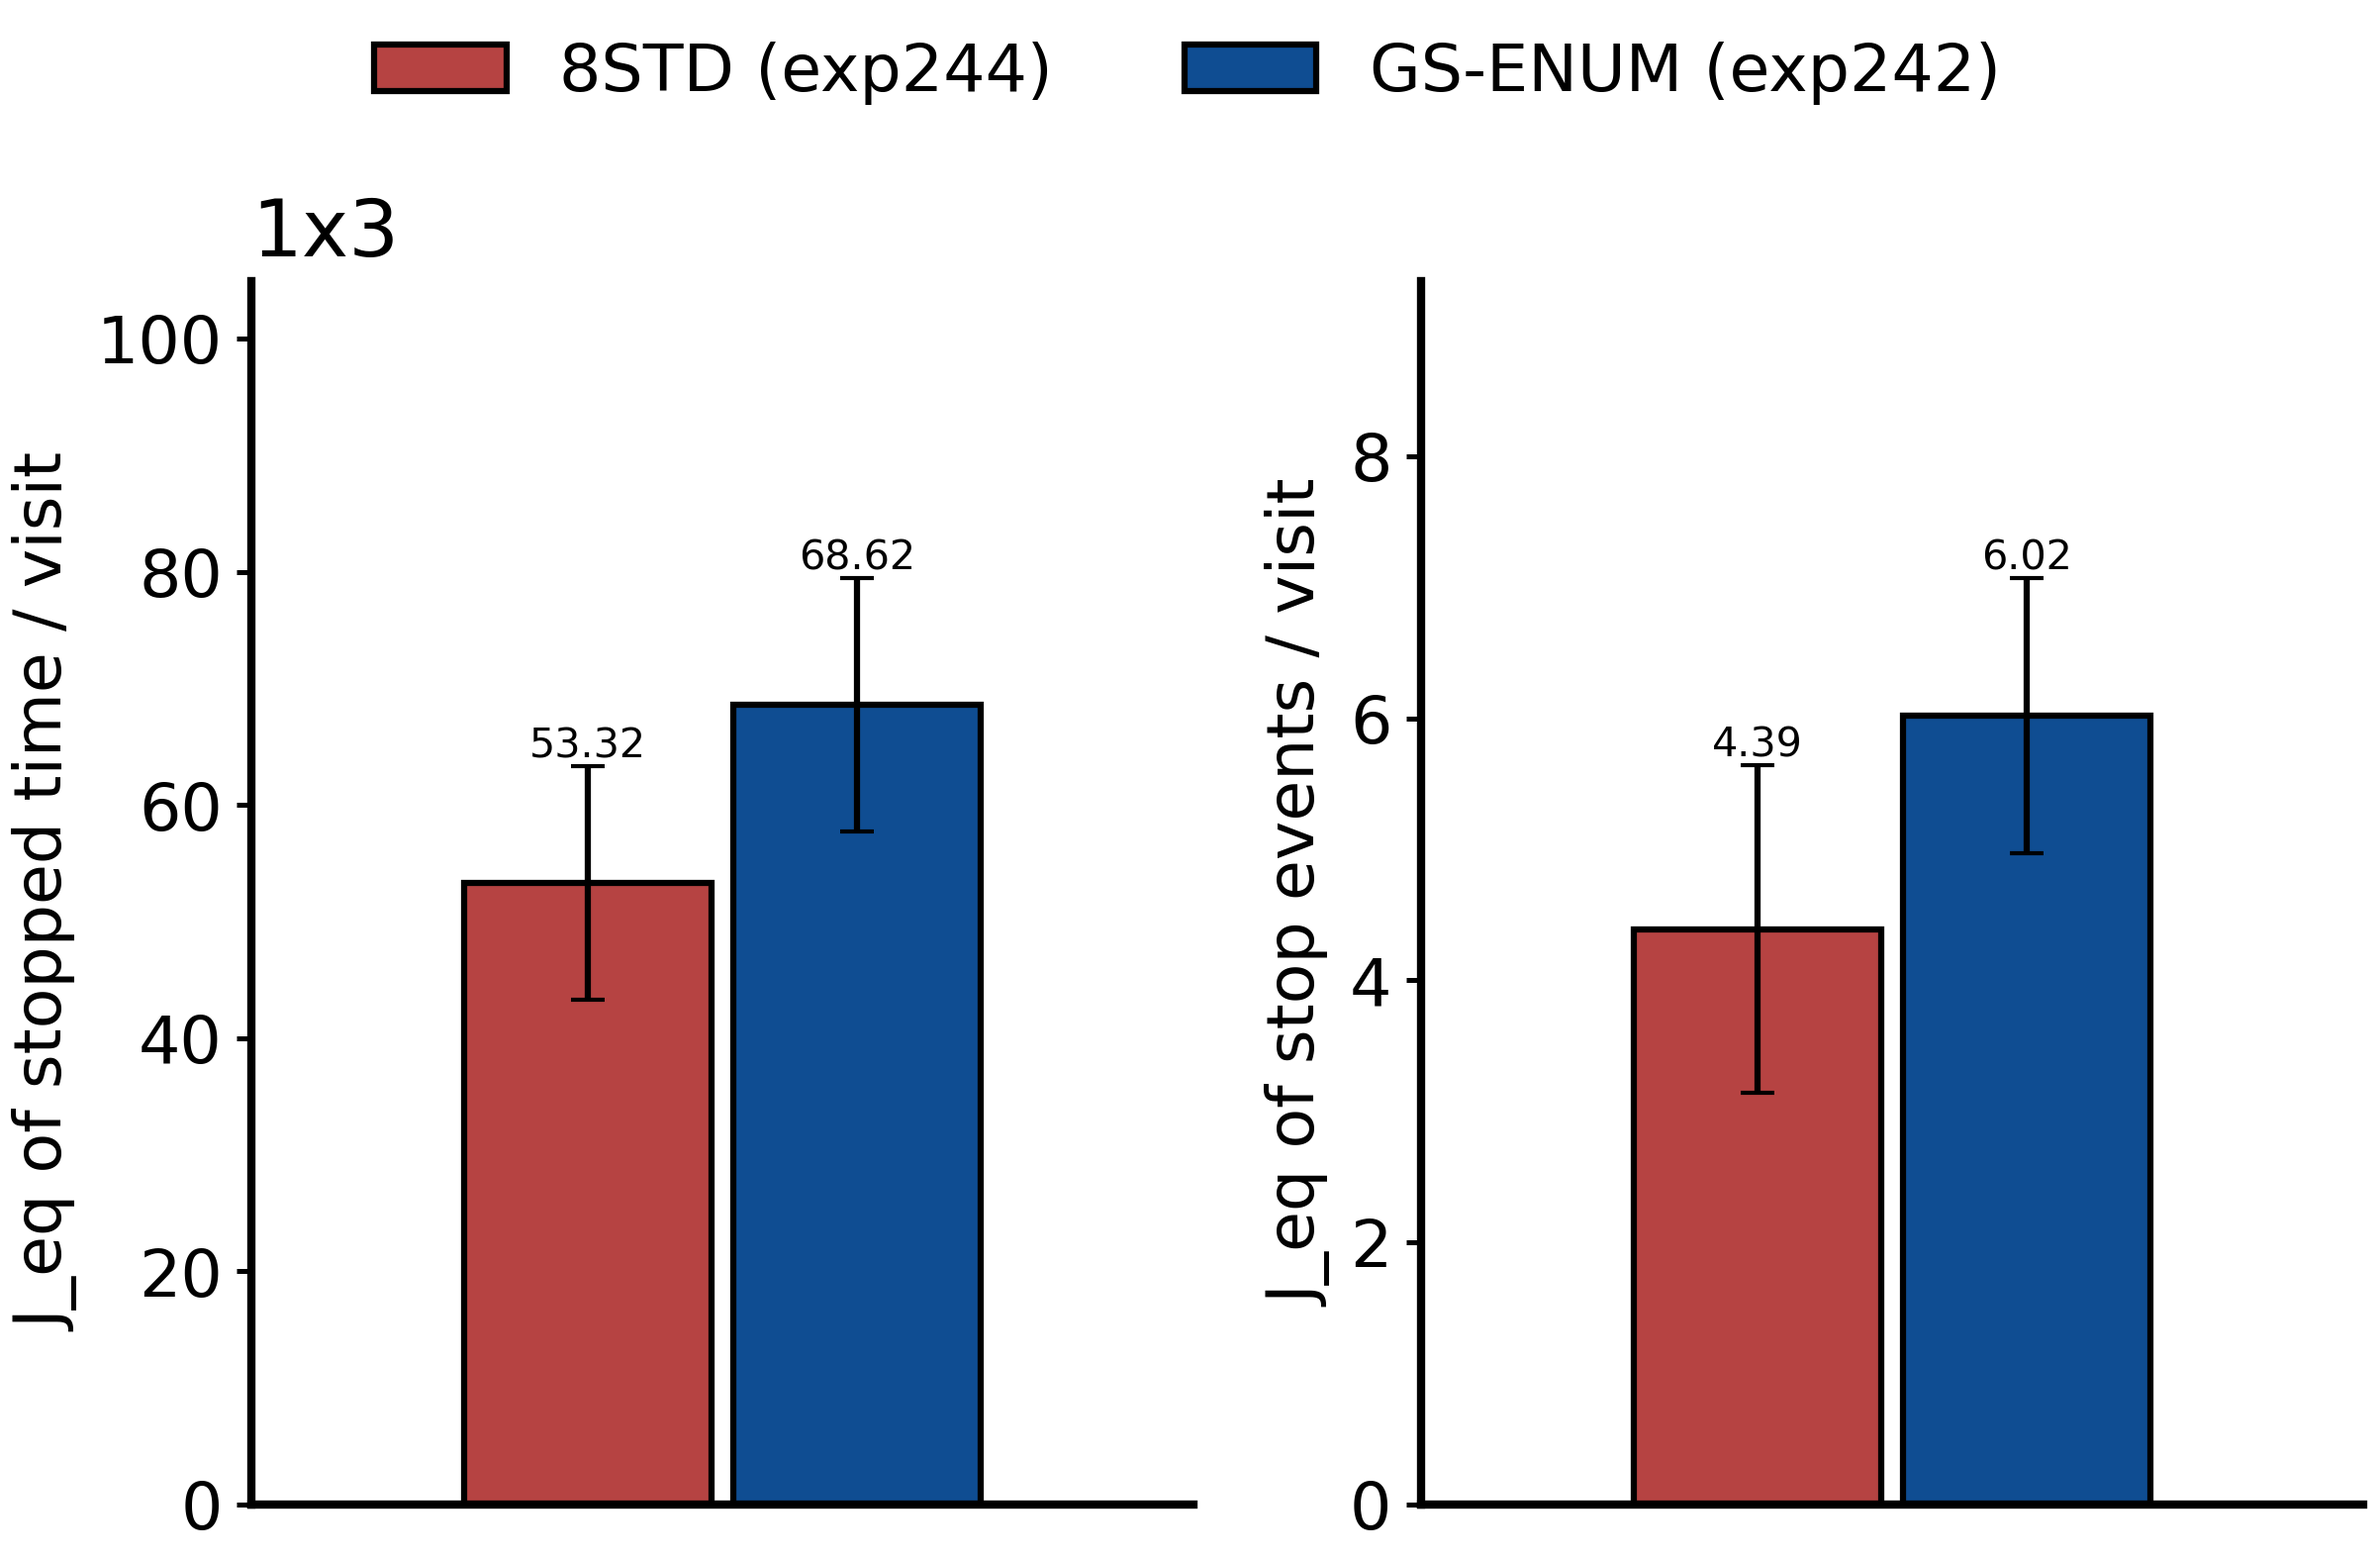
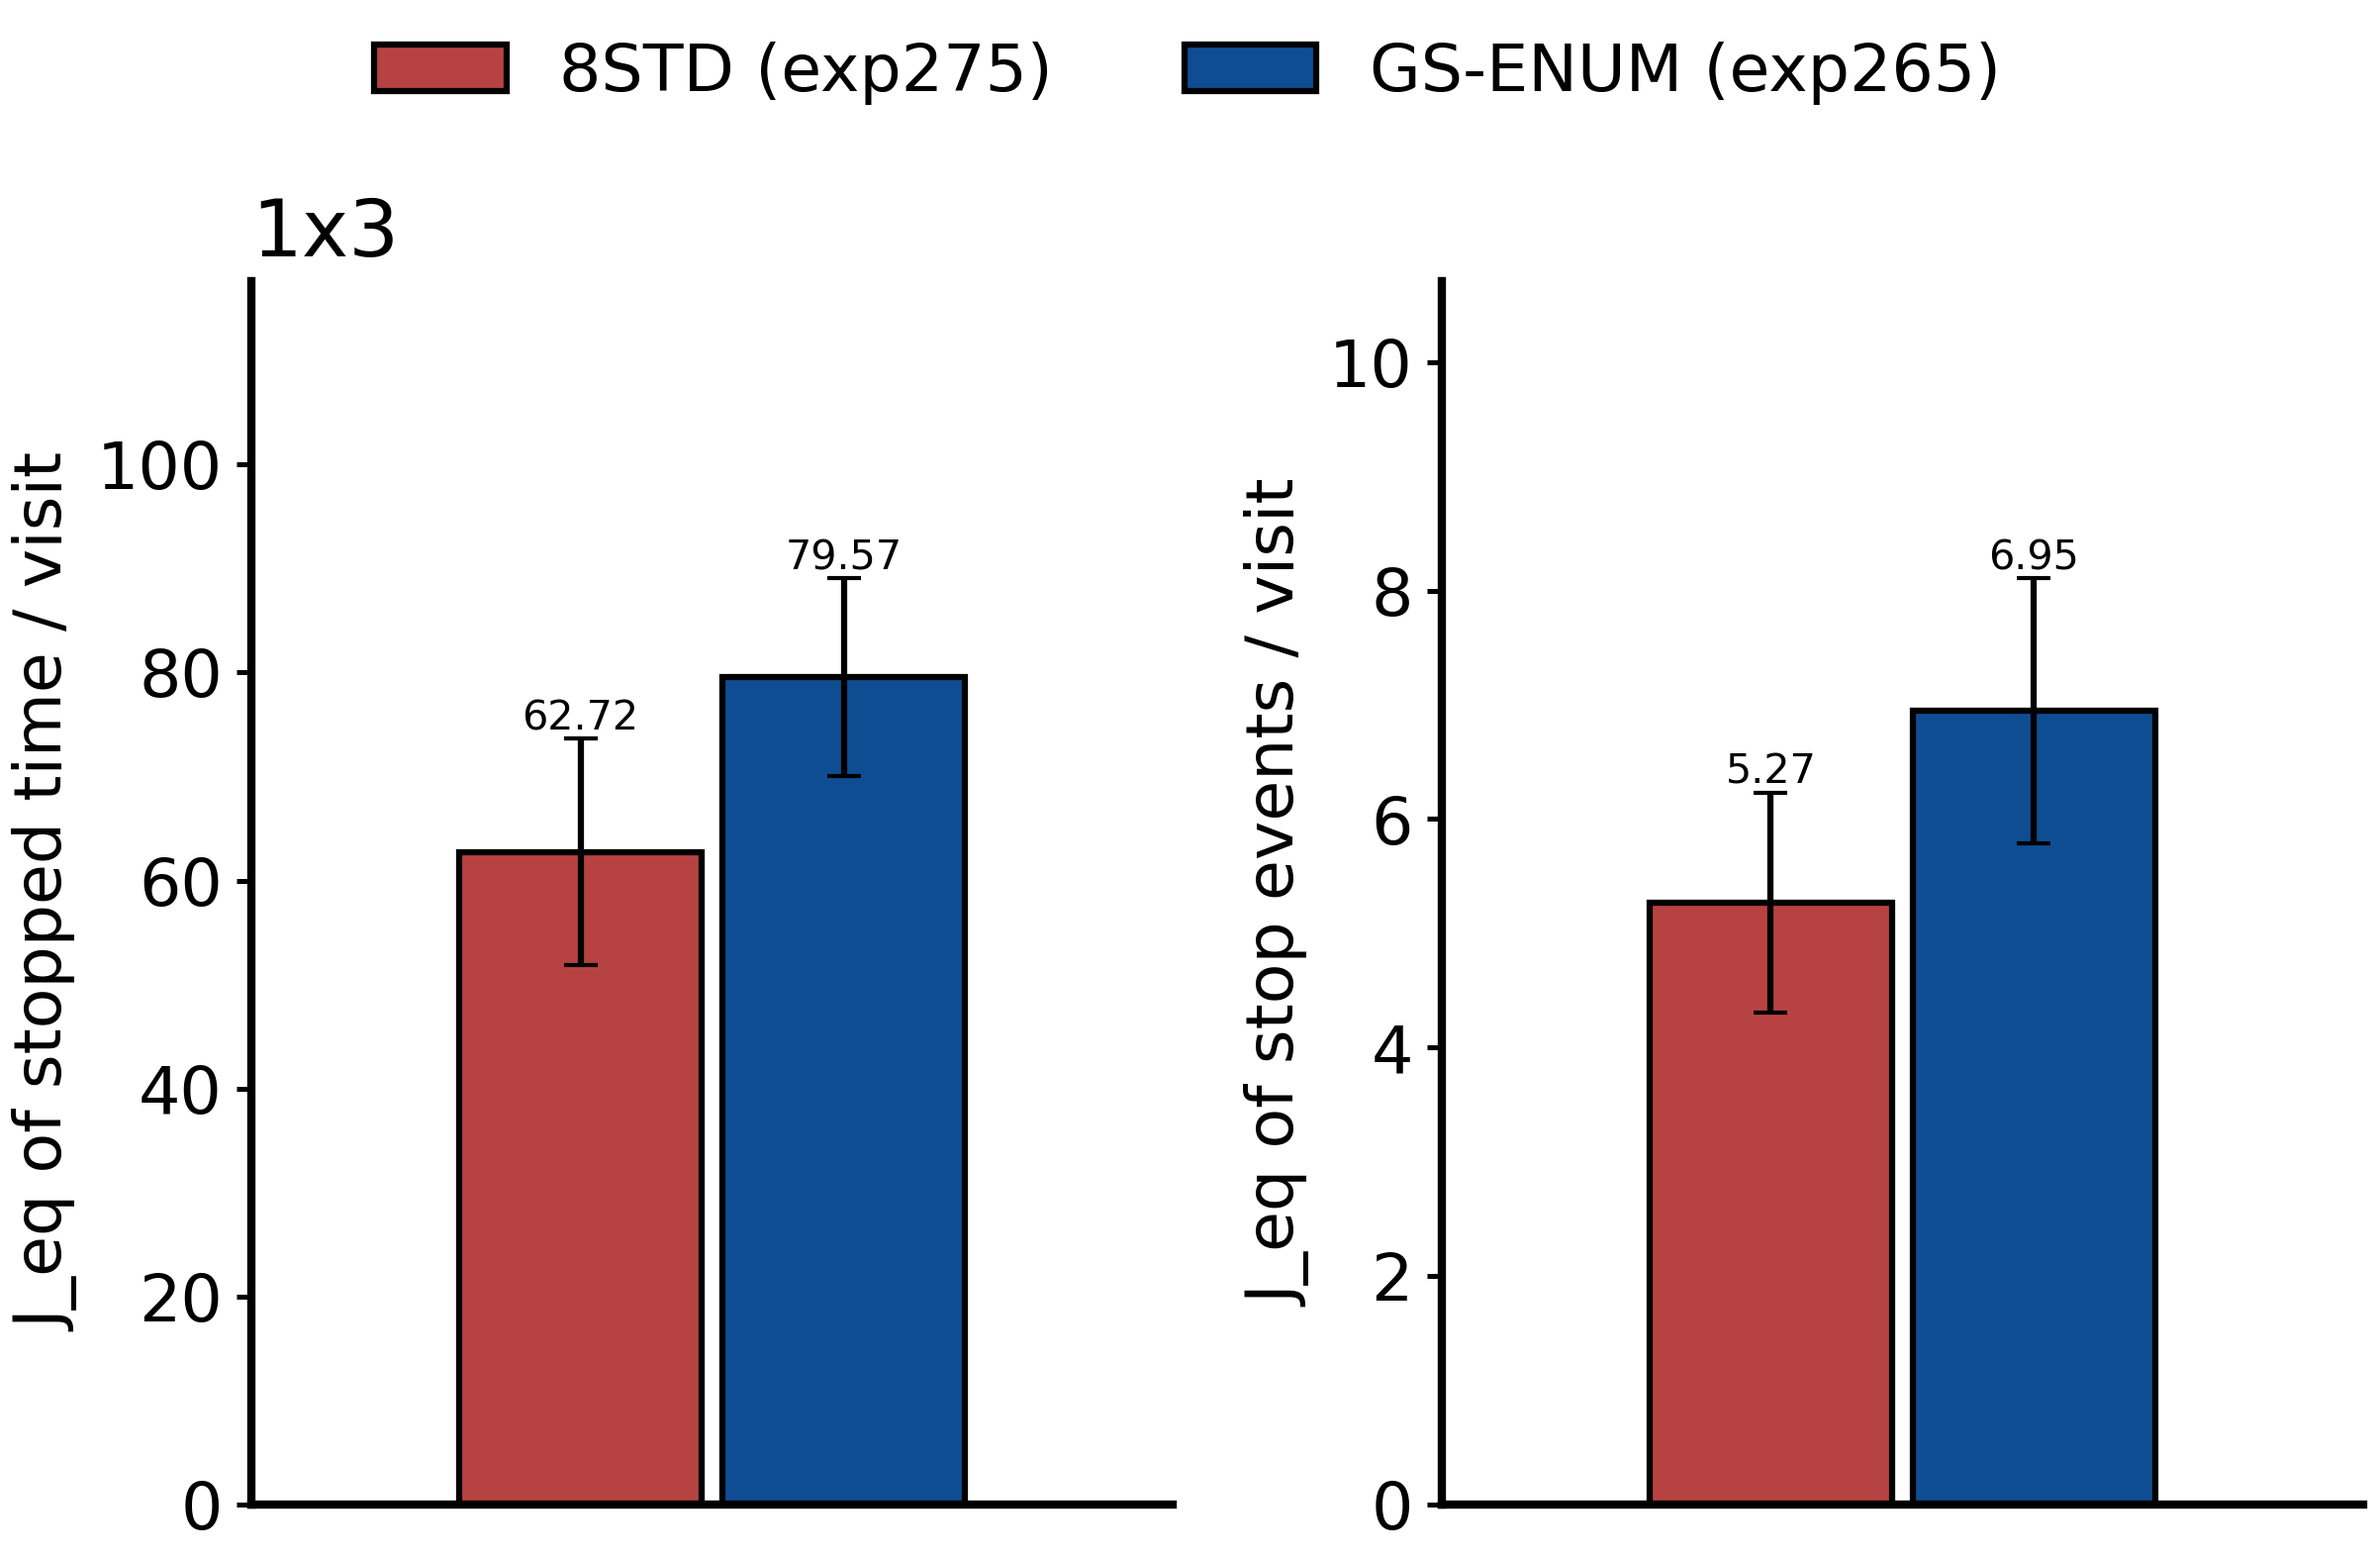
1x3 图改用论文主对 exp275 (8std完整8+统一γ.99+perphase) vs exp265 (enum FRAP+统一γ.99), 取 2026-09-02 20:57 的尾40 (275 至 4288/5000, 265 至 3722/5000, 训练中)

diff --git a/experiments/tools/figures/plot_main_comparison_2026-09-02.py b/experiments/tools/figures/plot_main_comparison_2026-09-02.py
@@ -67,12 +67,12 @@ SCEN = [
     xts={"xts stopped time (s)": M([32.40,7.46,5.38,31.06],[2.19,1.32,2.37,2.06],[31.30,7.25,4.50,30.00],[2.19,1.10,2.84,2.11],[32.06,81.67],[2.10,13.73],[30.97,75.54],[2.19,15.59]),
          "xts stop events":      M([1.13,0.85,0.49,1.11],[0.05,0.08,0.14,0.05],[1.11,0.79,0.47,1.10],[0.07,0.07,0.16,0.07],[1.18,6.12],[0.05,0.76],[1.16,5.86],[0.07,0.80]),
          "xts speed (m/s)":      M([3.49,6.99,8.54,3.59],[0.17,0.39,1.08,0.17],[3.57,7.11,8.32,3.67],[0.18,0.31,1.32,0.18],[4.14,67.15],[0.16,5.87],[4.23,66.51],[0.19,6.56])}),
-  dict(name="1x3", exps=("exp244", "exp242"),
-    pervisit={"stopped time / visit (s)": M([29.45,3.34,2.77,27.42],[1.32,0.54,1.79,1.22],[30.77,5.92,4.02,28.83],[1.28,0.34,2.10,1.19],[28.48,53.32],[1.26,10.02],[30.11,68.62],[1.24,10.87]),
-              "stop events / visit":       M([1.10,0.49,0.37,1.05],[0.04,0.07,0.23,0.04],[1.20,0.76,0.51,1.17],[0.04,0.04,0.21,0.04],[1.12,4.39],[0.04,1.25],[1.26,6.02],[0.04,1.05])},
-    xts={"xts stopped time (s)": M([31.94,3.34,2.77,30.36],[1.49,0.54,1.79,1.40],[34.22,5.92,4.02,32.64],[1.44,0.34,2.10,1.37],[30.84,55.81],[1.42,10.01],[33.40,72.08],[1.39,10.86]),
-         "xts stop events":      M([1.14,0.49,0.37,1.11],[0.04,0.07,0.23,0.04],[1.25,0.76,0.51,1.22],[0.04,0.04,0.21,0.04],[1.16,4.44],[0.04,1.25],[1.31,6.07],[0.04,1.05]),
-         "xts speed (m/s)":      M([3.40,8.68,8.78,3.53],[0.11,0.33,1.16,0.11],[3.22,7.48,7.79,3.33],[0.10,0.13,0.95,0.10],[4.55,73.36],[0.12,6.24],[4.19,64.61],[0.10,4.80])}),
+  dict(name="1x3", exps=("exp275", "exp265"),   # 主对 (统一稳定值 γ0.99, perphase); 2026-09-02 20:57 截取: 275 至 4288/5000, 265 至 3722/5000
+    pervisit={"stopped time / visit (s)": M([26.48,5.73,3.81,24.87],[1.68,0.95,2.04,1.54],[29.07,8.08,5.25,27.43],[0.72,0.53,1.93,0.66],[26.02,62.72],[1.58,10.90],[28.83,79.57],[0.68,9.51]),
+              "stop events / visit":       M([1.02,0.69,0.43,1.00],[0.04,0.09,0.19,0.04],[1.05,0.84,0.68,1.03],[0.02,0.03,0.23,0.02],[1.08,5.27],[0.04,0.96],[1.13,6.95],[0.02,1.16])},
+    xts={"xts stopped time (s)": M([28.92,5.73,3.81,27.64],[1.76,0.95,2.04,1.64],[32.78,8.08,5.25,31.40],[0.80,0.53,1.93,0.75],[28.33,65.16],[1.63,10.81],[32.36,83.28],[0.76,9.67]),
+         "xts stop events":      M([1.07,0.69,0.43,1.05],[0.04,0.09,0.19,0.04],[1.10,0.84,0.68,1.08],[0.02,0.03,0.23,0.02],[1.12,5.31],[0.04,0.96],[1.17,7.00],[0.02,1.16]),
+         "xts speed (m/s)":      M([3.65,7.66,8.33,3.77],[0.15,0.38,1.08,0.15],[3.36,6.98,7.31,3.47],[0.05,0.14,0.90,0.05],[4.64,68.26],[0.13,5.55],[4.25,60.84],[0.06,4.52])}),
 ]
 
 def panel_group(sc, metrics, suffix):
